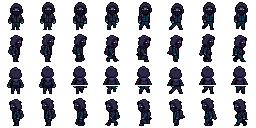
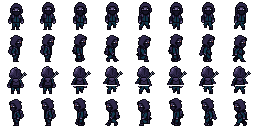
Тінь: вид ззаду (капюшон, rim, ломик), руки в протифазі, симетричні кроки анфас, кадр 3 профілю

diff --git a/tools/art/assemble_walk.py b/tools/art/assemble_walk.py
@@ -102,23 +102,108 @@ def bob(frame: Image.Image) -> int:
     return frame.getbbox()[1]
 
 
+def load_palette() -> dict:
+    """Кольори docs/art/palette.gpl за назвою."""
+    pal = {}
+    for line in open("docs/art/palette.gpl", encoding="utf-8"):
+        parts = line.split()
+        if len(parts) == 4 and parts[0].isdigit():
+            pal[parts[3]] = tuple(int(v) for v in parts[:3]) + (255,)
+    return pal
+
+
+def put(img: Image.Image, pixels: list, color: tuple) -> None:
+    px = img.load()
+    for x, y in pixels:
+        if 0 <= x < CELL and 0 <= y < CELL:
+            px[x, y] = color
+
+
+def outline(img: Image.Image, pixels: list, color: tuple) -> None:
+    """Контур навколо доданої деталі — лише там, де зараз прозоро."""
+    px = img.load()
+    own = set(pixels)
+    for x, y in pixels:
+        for nx, ny in ((x + 1, y), (x - 1, y), (x, y + 1), (x, y - 1)):
+            if (nx, ny) not in own and 0 <= nx < CELL and 0 <= ny < CELL and px[nx, ny][3] < 128:
+                px[nx, ny] = color
+
+
+def symmetric_legs(frames: list) -> list:
+    """Анфас: кадри 4–6 = кадри 1–3 з дзеркальними ногами — кроки обох ніг однакові."""
+    half = frames[:3]
+    out = list(half)
+    for f in half:
+        legs = region(f, LEG_SPLIT + 1, CELL).transpose(Image.FLIP_LEFT_RIGHT)
+        frame = region(f, 0, LEG_SPLIT + 1)
+        frame.paste(legs, (0, 0), legs)
+        out.append(frame)
+    return out
+
+
+def swing_arms(frame: Image.Image, left_dy: int, right_dy: int, left_max_x: int, right_min_x: int) -> Image.Image:
+    """Мах руками: кисть і передпліччя (рядки 19–23) зсуваються на dy, плече лишається."""
+    out = frame.copy()
+    src = frame.load()
+    px = out.load()
+    for x in range(CELL):
+        dy = left_dy if x <= left_max_x else right_dy if x >= right_min_x else 0
+        if dy == 0:
+            continue
+        for y in range(19, 25):
+            sy = y - dy
+            px[x, y] = src[x, sy] if 19 <= sy < 25 else ((0, 0, 0, 0) if dy < 0 else src[x, 19])
+    return out
+
+
+def shadow_back(key: Image.Image, pal: dict) -> Image.Image:
+    """Тінь ззаду: складки й шов капюшона, rim зверху-зліва, ломик з рюкзака за силуетом."""
+    out = key.copy()
+    # Rim від верхнього лівого світла: перший піксель усередині контуру.
+    put(out, [(14, 4), (12, 5), (11, 6), (11, 7), (11, 8), (10, 9), (10, 10)], pal["night_6"])
+    put(out, [(13, 5), (12, 6), (12, 7), (15, 4)], pal["night_7"])
+    # Освітлена ліва частка капюшона.
+    put(out, [(13, 6), (13, 7), (14, 6), (12, 8), (13, 8), (11, 9), (12, 9), (11, 10)], pal["night_5"])
+    # Шов посередині: темна лінія, праворуч від неї — затінений бік.
+    put(out, [(16, 5), (16, 6), (16, 7), (16, 8), (16, 9), (16, 10), (16, 11)], pal["night_2"])
+    put(out, [(17, 6), (17, 7), (17, 8), (18, 9), (18, 10), (19, 8), (19, 9), (19, 10), (19, 11), (20, 9), (20, 10), (20, 11)], pal["night_3"])
+    # Складка внизу капюшона, де він лягає на плечі.
+    put(out, [(13, 11), (14, 12), (18, 12)], pal["night_2"])
+    # Ломик із рюкзака, стирчить над правим плечем.
+    bar = [(19, 15), (20, 14), (21, 13), (22, 12), (23, 11), (23, 10)]
+    hook = [(24, 9), (25, 10)]
+    put(out, bar, pal["steel_1"])
+    put(out, [(22, 12), (23, 11), (23, 10)], pal["steel_2"])
+    put(out, hook, pal["steel_1"])
+    outline(out, bar + hook, pal["night_0"])
+    return out
+
+
 def main() -> None:
     cid = sys.argv[1]
     keys = load_strip(f"Assets/Art/Characters/{cid}_keys.png", 3)
     pal = palette_of(keys)
+    gpl = load_palette()
     front_key, back_key, side_key = keys
+    if cid == "shadow":
+        back_key = shadow_back(back_key, gpl)
+        pal = sorted(set(pal) | {gpl["steel_1"][:3], gpl["steel_2"][:3]})
 
     walk = {d: load_strip(f"Assets/Art/Incoming/{cid}_walk_{d}_pixellab.png", 7)[1:] for d in ("front", "back", "side")}
     walk = {d: [snap(f, pal) for f in fr] for d, fr in walk.items()}
 
-    front = [with_head(f, front_key) for f in walk["front"]]
+    front = symmetric_legs([with_head(f, front_key) for f in walk["front"]])
     side = [with_head(f, side_key) for f in walk["side"]]
+    # Профіль: кадр 3 (рука злипається з тулубом, ноги одним стовпцем) — та сама фаза «прохід», що кадр 0.
+    side[3] = side[0]
 
+    # Спина: верх ключової пози + ноги з анфасу; руки махають у протифазі до ноги, що виходить уперед.
+    swing = [(0, 0), (-1, 1), (-1, 1), (0, 0), (1, -1), (1, -1)]
     back = []
-    for f in front:
+    for f, (ldy, rdy) in zip(front, swing):
         dy = bob(f) - bob(front_key)
         frame = region(f, LEG_SPLIT, CELL)
-        upper = region(back_key, 0, LEG_SPLIT)
+        upper = swing_arms(region(back_key, 0, LEG_SPLIT), ldy, rdy, 10, 21)
         frame.paste(upper, (0, dy), upper)
         back.append(frame)
 
@@ -133,7 +218,7 @@ def main() -> None:
         for c, fr in enumerate(row):
             sheet.paste(fr, (c * CELL, r * CELL))
     sheet.save(f"Assets/Art/Characters/{cid}_sheet.png")
-    print(f"{cid}: палітра {len(pal)} кольорів, стрічка {sheet.size}")
+    print(f"{cid}: palette {len(pal)}, sheet {sheet.size}")
 
 
 if __name__ == "__main__":
